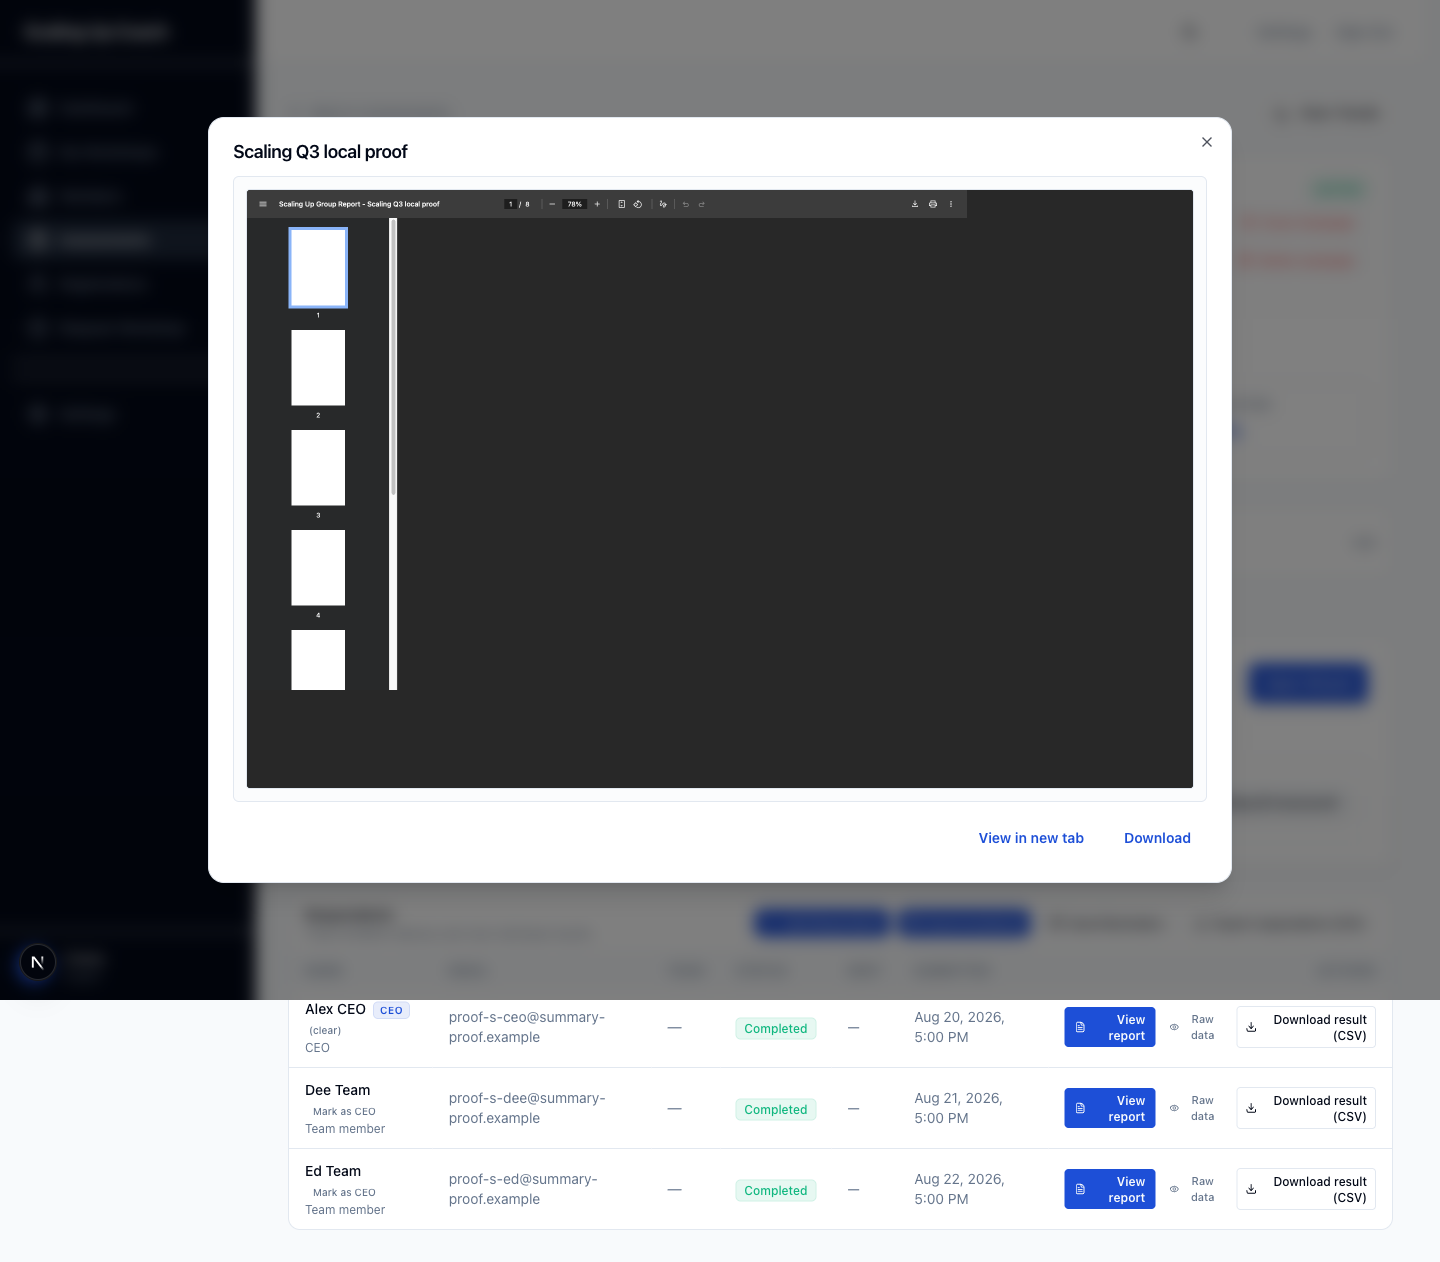
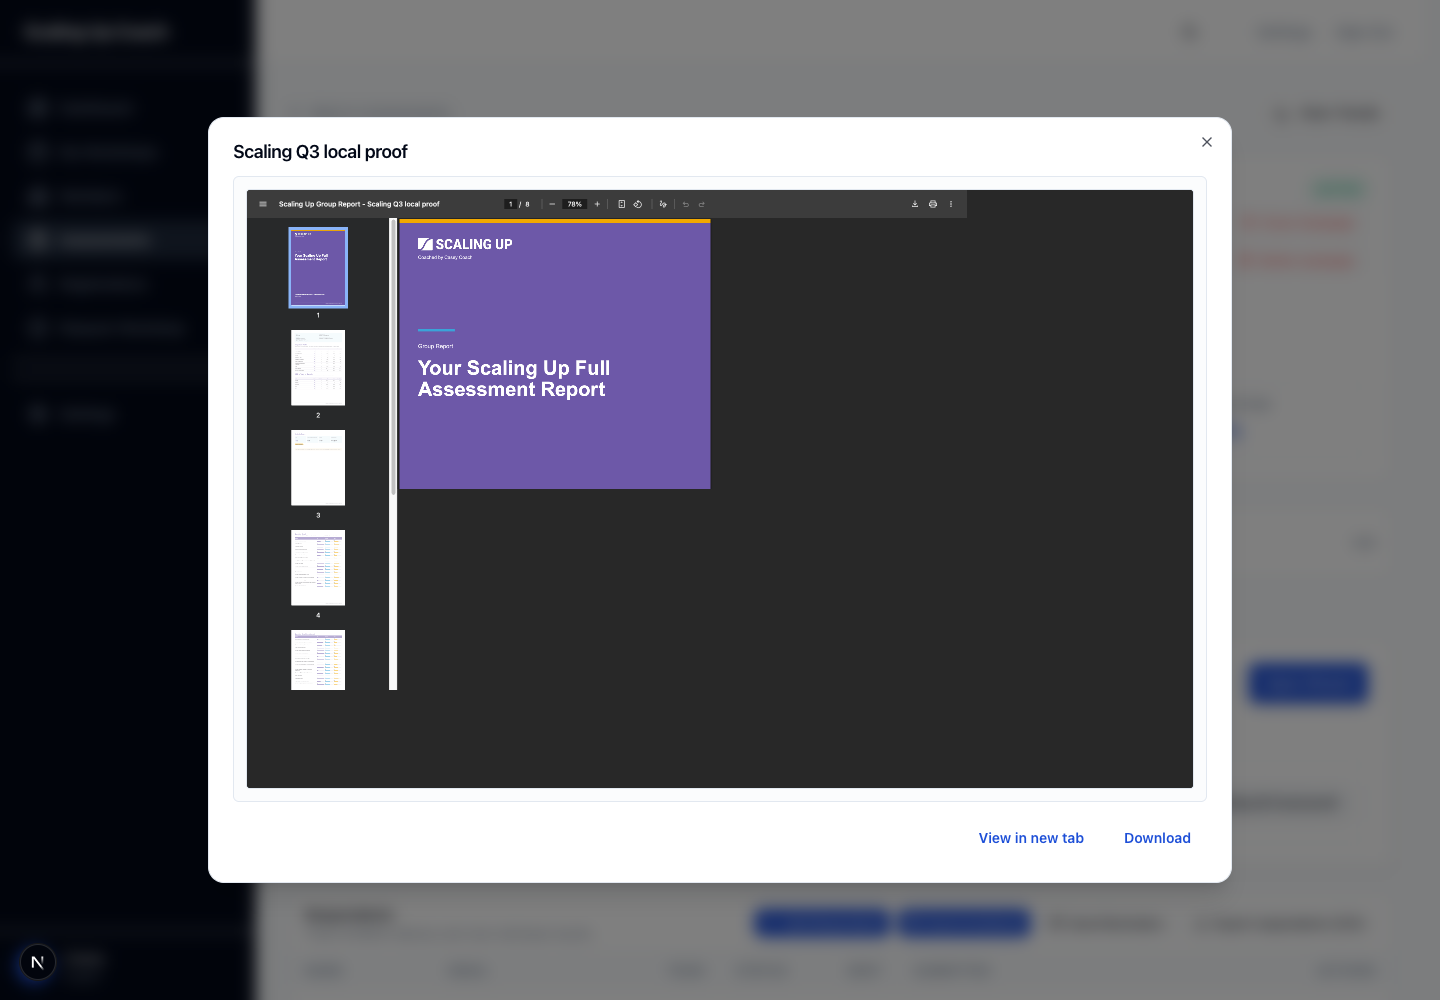
test(summary-reports): correct final desktop PDF paint evidence

diff --git a/src/e2e/summary-reporting.spec.ts b/src/e2e/summary-reporting.spec.ts
@@ -10,7 +10,9 @@ import { campaignId, adminCampaignId, adminSourceSuffix, sourceCampaignId, unsup
 // SDK wrapper and audits. Blob transport is simulated; limiter is development.
 test.describe.configure({ mode: "serial" });
 let proof: Awaited<ReturnType<typeof startSummaryProof>>;
-const evidence = join(process.cwd(), "..", "docs/research/evidence/summary-reporting-local-proof");
+// Test runs never overwrite reviewed, committed visual evidence. Promote only
+// the exact output files inspected after the run into docs/research/evidence.
+const evidence = join(process.cwd(), "test-results", "summary-reporting-evidence");
 const api = `/api/assessment-campaigns/${campaignId}/summary-reports`;
 const sourceOrder = [
   { submissionId: "proof-s-ceo", sourceCampaignId: campaignId, role: "CEO", position: 0 },
@@ -38,10 +40,16 @@ async function login(page: Page, role: "coach" | "admin") {
 function host(role: "coach" | "admin", id = campaignId) {
   return `${proof.baseURL}/${role === "coach" ? "portal/assessments" : "admin/assessments/campaigns"}/${id}`;
 }
-async function screenshots(page: Page, state: string) {
+async function screenshots(page: Page, state: string, nativePdf = false) {
   for (const [size, width, height] of [["desktop", 1440, 1000], ["mobile", 390, 844]] as const) {
     await page.setViewportSize({ width, height });
-    await page.screenshot({ path: join(evidence, `${state}-${size}.png`), fullPage: true, animations: "disabled" });
+    if (nativePdf) {
+      // Resize/foreground changes invalidate native PDF compositing. Settle
+      // AFTER the final viewport, and avoid fullPage's implicit enlargement.
+      await page.bringToFront();
+      await page.waitForTimeout(3000);
+    }
+    await page.screenshot({ path: join(evidence, `${state}-${size}.png`), fullPage: !nativePdf, animations: "disabled" });
     if (size === "mobile") await page.screenshot({ path: join(evidence, `${state}-mobile-viewport.png`), animations: "disabled" });
   }
   await page.setViewportSize({ width: 1440, height: 1000 });
@@ -151,10 +159,9 @@ test("coach/admin share one real catalog; compose, reorder, double-create and fr
     const path = join(proof.dir, `${role}.pdf`);
     await download.saveAs(path);
     expect(createHash("sha256").update(readFileSync(path)).digest("hex")).toBe(checksum);
-    // Native PDF painting is outside the DOM; retain a settled screenshot for
-    // manual inspection in addition to the byte/HTTP assertions above.
-    await active.waitForTimeout(3000);
-    await screenshots(active, `${role}-pdf-preview`);
+    // Native paint still requires inspection of the exact final image; bytes,
+    // HTTP success and a settling delay alone are not a visual PASS.
+    await screenshots(active, `${role}-pdf-preview`, true);
     await active.getByRole("button", { name: "Close", exact: true }).click();
   }
   execFileSync("pdftoppm", ["-f", "1", "-l", "2", "-scale-to", "1400", "-png", join(proof.dir, "coach.pdf"), join(evidence, "local-pdf")]);

diff --git a/docs/research/evidence/summary-reporting-scaling-ceo-full-renderer-v1-review.md b/docs/research/evidence/summary-reporting-scaling-ceo-full-renderer-v1-review.md
@@ -90,14 +90,14 @@ pending operations are in [the local-proof runbook](summary-reporting-local-proo
 | Coach/admin empty and populated lists | PASS: both actual hosts show the same single implemented catalog. The campaign panel remains primary; there is no new hub. `coach-empty-*`, `admin-empty-*`, `coach-populated-*`, `admin-populated-*` show the real components, not a static mockup. |
 | Composition | PASS after narrow scroll repair: selection is separate from role assignment; CEO is explicit, Team order is retained. At 390×844 the candidate region scrolls independently of the footer. The final action is fully visible/clickable above Review at the actual bottom; see `composition-bottom-mobile-viewport.png`. The earlier sticky-footer overlap was a real failure and was fixed, not accepted as baseline. |
 | Review | PASS after acceptance-gap repair: destination organization, CEO and ordered Team roles now include source campaign, assessment/version/language, completion timestamp and full submission identity. A same-name historical-source DOM regression proves disambiguation/order. `review-mobile-viewport.png` is legible; `admin-review-long-ids-mobile-viewport.png` proves long identities wrap within the dialog. The Review state changes no captured ambiguous-retry payload and adds no query. |
-| Modal / native PDF | PASS locally in headed Chromium: the settled `coach-pdf-preview-desktop.png` visibly paints the purple cover and native toolbar/page count, after actual inline HTTP 200 with `private, no-store` and `SAMEORIGIN`. Admin opens the same artifact; both actors open a new tab and download checksum-identical bytes. The exact artifact route required a narrow exception to the global DENY header; Next config and Vercel config carry matching overrides. No live CDN/CSP/header-precedence claim is made. |
+| Modal / native PDF | PASS for visible desktop content paint in the corrected R1 captures below: both coach/admin images show the upper purple cover, logo/title, populated thumbnails and native toolbar/page count. They do **not** show the complete cover page. The original committed captures were blank and did not support the earlier PASS claim. Real inline HTTP 200, `private, no-store`, `SAMEORIGIN`, new-tab and checksum-identical downloads are separately proven. The exact artifact route required a narrow exception to global DENY; matching Next/Vercel overrides do not prove deployed CDN/CSP/header precedence. |
 | Actual PDF pages | PASS for legibility/attribution: `local-pdf-1.png` has purple cover, local logo, campaign/organization/date hierarchy; `local-pdf-2.png` shows named CEO Alex CEO, frozen timestamp/version, 3 selected/completed/invited and labeled Section/Domain comparisons. `local-appendix-8.png` shows CEO, Person 1 (reordered Ed source), Person 2 (Dee source), with no Team names. All three are rasters of the bytes downloaded through the authorized route. |
 | Legacy mobile host layout | EXISTING LIMITATION: document width is 901px in a 390px viewport with Summary Reporting enabled **and with it off**, using the same campaign data. `coach-flag-off-mobile-viewport.png` records the comparison. The inherited respondent table/page overflow is not a wizard regression and is not claimed fixed. Full-page mobile screenshots can therefore exceed viewport width; use the `*-mobile-viewport.png` files for actual mobile composition. |
 
 All named screenshots are in [summary-reporting-local-proof](summary-reporting-local-proof/).
 Desktop viewports are 1440×1000 and mobile viewports 390×844. Full-page captures
 include content beyond the viewport and are explicitly not pixel-sized viewport
-evidence. The final lifecycle PDF has eight pages; its run-specific SHA-256 is
+evidence. The original full lifecycle PDF has eight pages; its run-specific SHA-256 is
[1 lines of base64/hex data omitted]
 The hash remains unchanged after retries, each host's download, and a later
 submission. New run timestamps naturally produce a different artifact hash.
@@ -124,16 +124,45 @@ inspection of the live source.
 - The local fixture has no coach avatar, so the cover uses the renderer's
   no-image attribution fallback; it does not prove a live coach-photo path.
   Optional/background identity answers are omitted from this synthetic input.
-- Headless-shell could not open the native PDF popup. Full Chromium new-headless
-  delivered the bytes and toolbar/thumbnails but initially captured a gray main
-  canvas; headed Chromium with a three-second paint settle visibly rendered the
-  page. Native paint is manually reviewed, not asserted by a pixel test. A
-  bounded Computer Use fallback failed with app-server error -10005; no desktop
-  capture is claimed from it, and the headed Playwright image is sufficient
-  positive local paint evidence. Mobile native viewer controls remain
-  browser-dependent; downloads/new-tab remain available.
+- Headless-shell could not open the native PDF popup. The original full
+  Chromium runs delivered bytes, but the committed desktop captures had blank
+  canvases: the pre-capture delay was invalidated by subsequent resize/full-page
+  capture. The earlier claim that those files proved paint was incorrect. R1
+  below replaces only the two desktop files with inspected viewport captures.
+  Native paint is manually reviewed, not asserted by a pixel test. A bounded
+  Computer Use fallback failed with app-server error -10005; no desktop capture
+  is claimed from it. Mobile native viewer controls remain browser-dependent;
+  downloads/new-tab remain available.
 
 **Verdict:** local lifecycle, mobile wizard containment, Review provenance and
 representative PDF legibility pass. The accepted bar-layout/A4/appendix
 differences keep the **actual-canary visual gate open before launch**; this
 addendum does not authorize global enablement or claim pixel identity to ESPERTO.
+
+### R1 evidence correction — exact final desktop files
+
+The blank coach image at commit `3dd74fc2` had SHA-256
[1 lines of base64/hex data omitted]
+It and the blank admin image are superseded by the following **1440×1000
+viewport-only** captures, inspected after copying into their final tracked paths:
+
+| File | Final SHA-256 |
+| --- | --- |
[2 lines of base64/hex data omitted]
+
+Both show the upper purple cover, Scaling Up logo, `Your Scaling Up Full
+Assessment Report`, orange top rule, populated page thumbnails and `1 / 8`
+toolbar. The captured native surface cuts off the lower cover portion; this is
+positive content-paint evidence, **not** proof of complete-page visibility or
+mobile PDF readability. Complete cover/content legibility remains evidenced
+separately by the actual PDF rasters above and requires live canary acceptance.
+
+The focused headed lifecycle rerun passed **1/1**, 40.2s, including both actors'
+inline/new-tab/download and immutable checksum checks. Its PDF SHA-256 was
[1 lines of base64/hex data omitted]
+this is a new timestamped run, distinct from the original full-suite PDF/rasters.
+The helper now activates the page and settles **after** setting the final
+viewport, then captures without full-page enlargement. Test runs write only
+ignored `src/test-results/summary-reporting-evidence/`; promoting inspected
+files is explicit, so a later run cannot overwrite accepted tracked evidence.

diff --git a/plans/CHANGELOG.md b/plans/CHANGELOG.md
@@ -15,7 +15,7 @@ Future entries should be appended at the TOP of the entries section below (newes
 
 **Local acceptance closure.** A dedicated Playwright fixture uses real bcrypt/NextAuth, loopback PostgreSQL, actual route/service/renderer/SDK code and 61-question deidentified inputs. Coach and admin independently select/assign sources, reorder Team, double-click Create, retry to one row, open/view/new-tab/download and retain the same checksum after a later submission. Direct artifact authentication/currency, source revocation, controlled local byte tamper, database immutability/uniqueness, both-host unsupported/DRAFT/kill/off states and catalog equality are covered. Deferred audit-failure 503 now retains earned rate headers. Actual-browser proof exposed and fixed artifact-only same-origin framing and the mobile wizard footer/scroll overlap. Review now includes organization and exact source provenance, including same-name historical-source and mobile long-ID regressions; no backend query or retry-payload change.
 
-**Verification and evidence.** The full named gate passed **18 suites / 198 tests**; the affected security/UI gate passed **4 suites / 59 tests** (including production missing-Redis fail-closed coverage). Headed Chromium passed **4/4 E2E tests**, with genuine desktop/mobile screenshots, painted native PDF preview and actual downloaded-PDF rasters. Migration safety checked **43 migrations**, exit 0; changed-file ESLint exited 0. Final build details are recorded in [local proof](../docs/research/evidence/summary-reporting-local-proof/README.md). The fixture applies the exact tracer SQL to the known pre-feature schema: the complete historical migration chain still cannot bootstrap an empty DB (`42P01`, missing `categories`), and this unrelated baseline gap was not repaired. Blob transport is simulated and the local limiter is development-only; neither is live infrastructure proof.
+**Verification and evidence.** The full named gate passed **18 suites / 198 tests**; the affected security/UI gate passed **4 suites / 59 tests** (including production missing-Redis fail-closed coverage). Headed Chromium passed **4/4 E2E tests**, with genuine desktop/mobile screenshots and actual downloaded-PDF rasters. Review R1 found the committed desktop native previews blank, invalidating their initial paint claim. A scoped **1/1 headed lifecycle rerun** regenerated and directly inspected the exact final coach/admin viewport captures: both visibly paint the upper cover/title and populated thumbnails, but not the complete cover. Test output is now isolated from reviewed tracked images. Migration safety checked **43 migrations**, exit 0; changed-file ESLint exited 0, including the edited E2E repair. Final build details and corrected evidence hashes are linked from [local proof](../docs/research/evidence/summary-reporting-local-proof/README.md). The fixture applies the exact tracer SQL to the known pre-feature schema: the complete historical migration chain still cannot bootstrap an empty DB (`42P01`, missing `categories`), and this unrelated baseline gap was not repaired. Blob transport is simulated and the local limiter is development-only; neither is live infrastructure proof.
 
 **Visual gate.** [Preserved renderer evidence and Task14 review](../docs/research/evidence/summary-reporting-scaling-ceo-full-renderer-v1-review.md) record the hierarchy/palette/attribution/appendix comparison. The accepted source's stacked CEO/peer question bars become side-by-side column mini-bars; the continuous source becomes fixed A4 pages with explicit provenance/benchmark disclosures and anonymous appendix chunks. This is not pixel identity. These visible deviations require explicit actual-canary acceptance before global enablement. The legacy mobile host table overflow remains measurable with the flag off (901px document / 390px viewport); the wizard itself is contained.
 

diff --git a/docs/research/evidence/summary-reporting-local-proof/README.md b/docs/research/evidence/summary-reporting-local-proof/README.md
@@ -15,6 +15,9 @@ PATH=/opt/homebrew/opt/node@20/bin:$PATH npx playwright test e2e/summary-reporti
 
 Add `--headed` for the captured native-PDF visual proof. Full Chromium (not the
 headless shell) is selected explicitly; see the visual review for engine limits.
+New runs write images to ignored `src/test-results/summary-reporting-evidence/`
+(repository-relative), never directly over this reviewed evidence directory.
+Inspect the exact output at its final viewport before explicitly promoting it.
 
 The separate config deliberately does not reuse a developer server. The fixture
 starts PostgreSQL on an unused loopback port and a real Next development server
@@ -52,7 +55,9 @@ the same after retry, view/download and a later submission.
 
 Screenshots named `*-desktop.png` use 1440×1000; `*-mobile.png` are full-page
 captures from a 390×844 viewport. `*-mobile-viewport.png` preserve the actual
-390×844 visible viewport. Full-page images can be wider because the existing
+390×844 visible viewport. The corrected native-PDF desktop images are
+1440×1000 viewport-only captures, avoiding full-page compositor resizing.
+Full-page images can be wider because the existing
 campaign respondent table overflows on small screens. Do not treat the wider
 full-page image as a mobile viewport size. PDF page rasters are the actual bytes
 downloaded through the authorized route, not a mock HTML report.
@@ -112,8 +117,22 @@ runbook are the durable evidence; raw temporary PDFs are reproducible, not retai
 Representative evidence: [Review on mobile](review-mobile-viewport.png),
 [fully scrolled Composition](composition-bottom-mobile-viewport.png),
 [long source IDs](admin-review-long-ids-mobile-viewport.png),
-[painted PDF modal](coach-pdf-preview-desktop.png),
+[PDF modal with painted upper cover](coach-pdf-preview-desktop.png),
 [PDF provenance](local-pdf-2.png), [anonymous appendix](local-appendix-8.png).
+
+**R1 correction:** the original committed desktop native-PDF images were blank,
+so their claimed painted-cover PASS was not supported. A focused headed
+lifecycle rerun (`--grep 'coach/admin share one real catalog'`, **1/1 passed,
+40.2s**) regenerated only the promoted coach/admin desktop evidence after the
+final viewport resize/foreground activation and settling delay, without
+full-page enlargement. Both exact final files visibly paint the upper purple
+cover/logo/title, populated thumbnails and toolbar; the lower cover is cut off
+in the native capture. This closes visible content-paint proof, not full-page
+visibility or mobile readability. Exact image hashes and the distinct rerun
+artifact hash are in the [R1 visual correction](../summary-reporting-scaling-ceo-full-renderer-v1-review.md#r1-evidence-correction--exact-final-desktop-files).
+The original four-test results and PDF rasters above are preserved; no broad
+suite/build was repeated for this test/evidence-only repair. Edited E2E ESLint
+passed. Its loopback app/database and temporary outputs were cleaned separately.
 
 The original Task 8 renderer evidence remains intact. The accidental tracked
 Task 12 SDD scratch report was untracked without removing its local contents;
